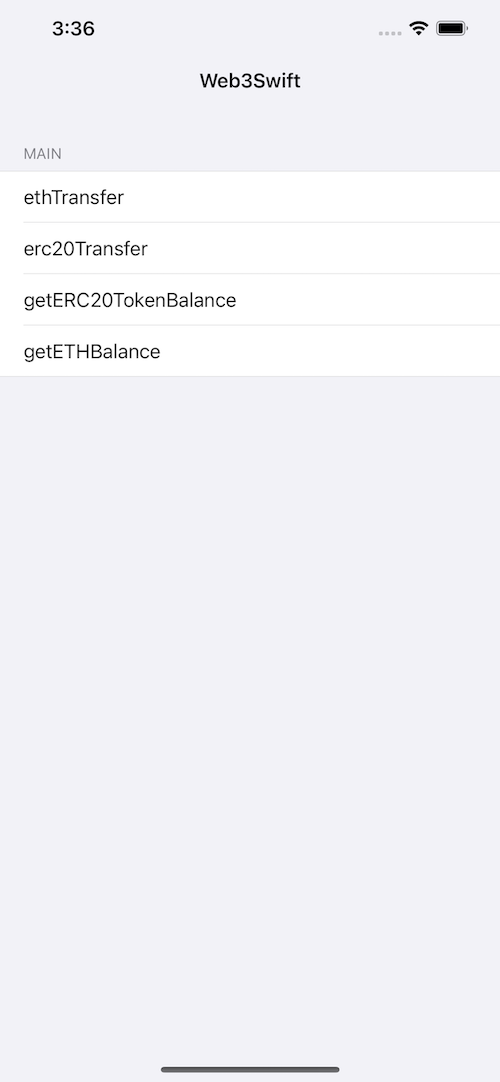
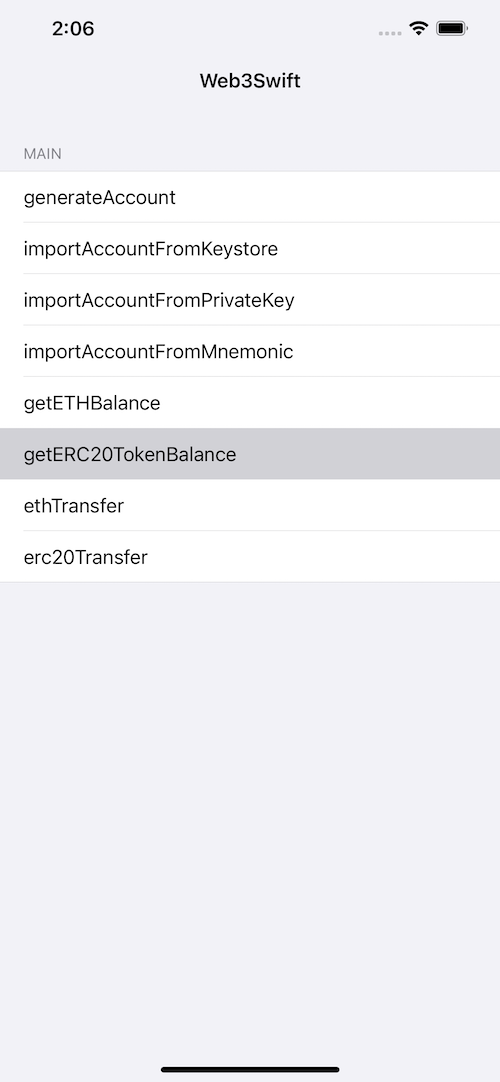
edit readme

diff --git a/README.md b/README.md
@@ -17,7 +17,7 @@ The Swift Package Manager is a tool for automating the distribution of Swift cod
 Once you have your Swift package set up, adding SDBridgeSwift as a dependency is as easy as adding it to the dependencies value of your Package.swift.
 ```ruby
 dependencies: [
-    .package(url: "https://github.com/smithSophiav/EtherWallet.git", .upToNextMajor(from: "1.0.2"))
+    .package(url: "https://github.com/smithSophiav/EtherWallet.git", .upToNextMajor(from: "1.0.3"))
 ]
 ```
 ### Example usage
@@ -36,6 +36,68 @@ if web3.isWeb3LoadFinished {
         if web3LoadFinished {}
     }
 }
+```
+
+##### generate Account
+```swift
+web3.generateAccount(password: password) { [weak self] state, address,mnemonic,privateKey, keystore in
+    guard let self = self else { return }
+    self.generateAccountBtn.isEnabled = true
+    if state {
+        let text =
+        "address: " + address + "\n\n" +
+        "mnemonic: " + mnemonic + "\n\n" +
+        "privateKey: " + privateKey + "\n\n" +
+        "keystore: " + keystore
+        generateAccountTextView.text = text
+    } else {
+        
+    }
+}
+```
+
+##### Import Account From Mnemonic 
+```swift
+web3.importAccount(mnemonic: mnemonic, encrypedPassword: encrypedPassword){ [weak self] state,address,privateKey,keystore in
+    guard let self = self else { return }
+    self.importAccountBtn.isEnabled = true
+    if state {
+        let text =
+            "address: " + address + "\n\n" +
+            "privateKey: " + privateKey + "\n\n" +
+            "keystore: " + "\n" + keystore
+        self.importAccountTextView.text = text
+    } else {}
+}
+```
+
+##### Import Account From Keystore
+```swift
+web3.importAccount(decryptPassword: password, Keystore: Keystore) { [weak self] state, address, privateKey in
+    guard let self = self else { return }
+    self.importAccountBtn.isEnabled = true
+    if state {
+        let text =
+            "address: " + address + "\n\n" +
+            "privateKey: " + privateKey
+        self.importAccountTextView.text = text
+    } else {}
+}
+```
+
+
+##### Import Account From PrivateKey
+```swift
+web3.importAccount(privateKey: privateKey, encrypedPassword: password){ [weak self] state, address, keystore in
+        guard let self = self else { return }
+        self.importAccountBtn.isEnabled = true
+        if state {
+            let text =
+                "address: " + address + "\n\n" +
+                "keystore: " + "\n" + keystore
+            self.importAccountTextView.text = text
+        } else {}
+    }
 ```
 
 ##### Send ETH
